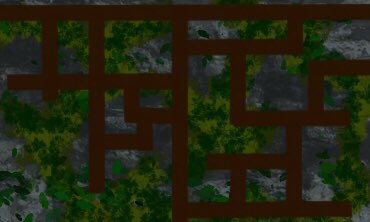
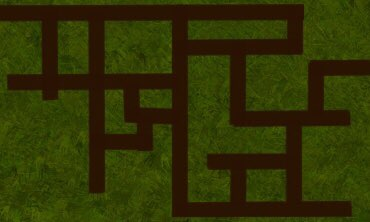
fixed transitions

diff --git a/jsgame.html b/jsgame.html
@@ -6,83 +6,33 @@
   <link rel="stylesheet" href="jsgame.css">
 
   <map name="levelOneMap">
-    <area shape="rect" coords="-9,28,33,275" id="levelOneObstacle1">
-    <area shape="rect" coords="60,28,520,58" id="levelOneObstacle2">
-    <area shape="rect" coords="281,62,327,147" id="levelOneObstacle3">
-    <area shape="rect" coords="349,84,413,147" id="levelOneObstacle4">
-    <area shape="rect" coords="439,84,521,147" id="levelOneObstacle5">
-    <area shape="rect" coords="282,173,472,234" id="levelOneObstacle6">
-    <area shape="rect" coords="60,174,149,272" id="levelOneObstacle7">
-    <area shape="rect" coords="149,263,323,274" id="levelOneObstacle8">
-    <area shape="rect" coords="545,1,558,149" id="levelOneObstacle9">
-    <area shape="rect" coords="349,262,558,307" id="levelOneObstacle10">
-    <area shape="rect" coords="496,175,559,261" id="levelOneObstacle11">
-    <area shape="rect" coords="59,298,325,338" id="levelOneObstacle12">
-    <area shape="rect" coords="-8,298,35,338" id="levelOneObstacle13">
-    <area shape="rect" coords="59,86,197,98" id="levelOneObstacle14">
-    <area shape="rect" coords="61,100,95,147" id="levelOneObstacle15">
-    <area shape="rect" coords="119,98,201,149" id="levelOneObstacle16">
-    <area shape="rect" coords="187,148,201,170" id="levelOneObstacle17">
-    <area shape="rect" coords="170,171,201,206" id="levelOneObstacle18">
-    <area shape="rect" coords="171,206,256,236" id="levelOneObstacle19">
-    <area shape="rect" coords="225,85,255,204" id="levelOneObstacle20">
+    <area shape="rect" coords="0,55,24,254" id="levelOneObstacle1">
+    <area shape="rect" coords="95,318,306,338" id="levelOneObstacle2">
+    <area shape="rect" coords="87,197,131,244" id="levelOneObstacle3">
+    <area shape="rect" coords="528,196,568,290" id="levelOneObstacle4">
+    <area shape="rect" coords="315,195,457,216" id="levelOneObstacle5">
   </map>
 
   <map name="levelTwoMap">
-    <area shape="rect" coords="0,31,64,112" id="levelTwoObstacle1">
-    <area shape="rect" coords="90,31,138,111" id="levelTwoObstacle2">
-    <area shape="rect" coords="161,31,263,110" id="levelTwoObstacle3">
-    <area shape="rect" coords="290,30,443,58" id="levelTwoObstacle4">
-    <area shape="rect" coords="466,31,568,91" id="levelTwoObstacle5">
-    <area shape="rect" coords="379,84,473,167" id="levelTwoObstacle6">
-    <area shape="rect" coords="500,116,569,170" id="levelTwoObstacle7">
-    <area shape="rect" coords="467,192,566,308" id="levelTwoObstacle8">
-    <area shape="rect" coords="290,84,354,236" id="levelTwoObstacle9">
-    <area shape="rect" coords="357,197,441,234" id="levelTwoObstacle10">
-    <area shape="rect" coords="381,261,441,306" id="levelTwoObstacle11">
-    <area shape="rect" coords="289,238,317,257" id="levelTwoObstacle12">
-    <area shape="rect" coords="291,261,353,307" id="levelTwoObstacle13">
-    <area shape="rect" coords="4,138,139,333" id="levelTwoObstacle14">
-    <area shape="rect" coords="138,298,265,339" id="levelTwoObstacle15">
-    <area shape="rect" coords="165,232,264,291" id="levelTwoObstacle16">
-    <area shape="rect" coords="218,144,262,165" id="levelTwoObstacle17">
-    <area shape="rect" coords="162,139,194,203" id="levelTwoObstacle18">
-    <area shape="rect" coords="193,188,210,202" id="levelTwoObstacle19">
-    <area shape="rect" coords="1,114,13,136" id="levelTwoObstacle20">
+    <area shape="rect" coords="1,163,110,338" id="levelTwoObstacle1">
+    <area shape="rect" coords="179,251,242,322" id="levelTwoObstacle2">
+    <area shape="rect" coords="488,212,567,288" id="levelTwoObstacle3">
+    <area shape="rect" coords="493,1,569,72" id="levelTwoObstacle4">
+    <area shape="rect" coords="527,131,569,154" id="levelTwoObstacle5">
+    <area shape="rect" coords="305,102,342,217" id="levelTwoObstacle6">
+    <area shape="rect" coords="181,51,243,87" id="levelTwoObstacle7">
+    <area shape="rect" coords="1,49,47,85" id="levelTwoObstacle8">
+    
   </map>
 
   <map name="levelThreeMap">
-    <area shape="rect" coords="323,262,566,338" id="levelThreeObstacle1">
-    <area shape="rect" coords="489,170,569,258" id="levelThreeObstacle2">
-    <area shape="rect" coords="274,0,567,75" id="levelThreeObstacle3">
-    <area shape="rect" coords="273,98,513,144" id="levelThreeObstacle4">
-    <area shape="rect" coords="540,74,569,145" id="levelThreeObstacle5">
-    <area shape="rect" coords="1,0,273,23" id="levelThreeObstacle6">
-    <area shape="rect" coords="1,24,29,148" id="levelThreeObstacle7">
-    <area shape="rect" coords="53,44,83,148" id="levelThreeObstacle8">
-    <area shape="rect" coords="110,44,245,57" id="levelThreeObstacle9">
-    <area shape="rect" coords="109,47,151,107" id="levelThreeObstacle10">
-    <area shape="rect" coords="181,82,246,113" id="levelThreeObstacle11">
-    <area shape="rect" coords="110,138,247,147" id="levelThreeObstacle12">
-    <area shape="rect" coords="1,175,29,336" id="levelThreeObstacle13">
-    <area shape="rect" coords="31,317,124,339" id="levelThreeObstacle14">
-    <area shape="rect" coords="55,264,135,310" id="levelThreeObstacle15">
-    <area shape="rect" coords="108,208,154,236" id="levelThreeObstacle16">
-    <area shape="rect" coords="273,262,294,309" id="levelThreeObstacle17">
-    <area shape="rect" coords="55,174,81,236" id="levelThreeObstacle18">
-    <area shape="rect" coords="55,174,153,182" id="levelThreeObstacle19">
-    <area shape="rect" coords="235,262,245,311" id="levelThreeObstacle20">
-    <area shape="rect" coords="181,173,294,183" id="levelThreeObstacle21">
-    <area shape="rect" coords="250,173,293,198" id="levelThreeObstacle22">
-    <area shape="rect" coords="182,210,225,233" id="levelThreeObstacle23">
-    <area shape="rect" coords="225,228,293,234" id="levelThreeObstacle24">
-    <area shape="rect" coords="319,174,461,182" id="levelThreeObstacle25">
-    <area shape="rect" coords="414,182,463,202" id="levelThreeObstacle26">
-    <area shape="rect" coords="320,207,385,230" id="levelThreeObstacle27">
-    <area shape="rect" coords="386,228,463,235" id="levelThreeObstacle28">
-    <area shape="rect" coords="163,262,209,276" id="levelThreeObstacle29">
-    <area shape="rect" coords="161,300,210,310" id="levelThreeObstacle30">
-    <area shape="rect" coords="195,265,210,310" id="levelThreeObstacle31">
+    <area shape="rect" coords="293,1,567,60" id="levelThreeObstacle1">
+    <area shape="rect" coords="338,277,567,339" id="levelThreeObstacle2">
+    <area shape="rect" coords="506,186,568,260" id="levelThreeObstacle3">
+    <area shape="rect" coords="289,112,489,131" id="levelThreeObstacle4">
+    <area shape="rect" coords="70,280,105,325" id="levelThreeObstacle5">
+    <area shape="rect" coords="551,66,568,132" id="levelThreeObstacle6">
+    <area shape="rect" coords="122,217,141,224" id="levelThreeObstacle7">    
   </map>
 
 

diff --git a/jsgame.js b/jsgame.js
@@ -76,8 +76,8 @@ function mainMenu() {
 function levelOne() {
     x = 0; 
     y = 0; 
-    finish_x = canvas.width/2; 
-    finish_y = canvas.height/2; 
+    finish_x = 568; 
+    finish_y = 165; 
     level_image = level_one_image;
     level_array = level_one_collectables;
     level = 1;
@@ -192,21 +192,7 @@ var level_one_obstacles = [
     "levelOneObstacle3",
     "levelOneObstacle4",
     "levelOneObstacle5",
-    "levelOneObstacle6",
-    "levelOneObstacle7",
-    "levelOneObstacle8",
-    "levelOneObstacle9",
-    "levelOneObstacle10",
-    "levelOneObstacle11",
-    "levelOneObstacle12",
-    "levelOneObstacle13",
-    "levelOneObstacle14",
-    "levelOneObstacle15",
-    "levelOneObstacle16",
-    "levelOneObstacle17",
-    "levelOneObstacle18",
-    "levelOneObstacle19",
-    "levelOneObstacle20"
+
 ];
 
 // Updated isLevelOneObstacle function to handle multiple obstacles
@@ -231,19 +217,7 @@ var level_two_obstacles = [
     "levelTwoObstacle5",
     "levelTwoObstacle6",
     "levelTwoObstacle7",
-    "levelTwoObstacle8",
-    "levelTwoObstacle9",
-    "levelTwoObstacle10",
-    "levelTwoObstacle11",
-    "levelTwoObstacle12",
-    "levelTwoObstacle13",
-    "levelTwoObstacle14",
-    "levelTwoObstacle15",
-    "levelTwoObstacle16",
-    "levelTwoObstacle17",
-    "levelTwoObstacle18",
-    "levelTwoObstacle19",
-    "levelTwoObstacle20"
+    "levelTwoObstacle8"
 ];
 
 // Updated isLevelTwoObstacle function to handle multiple obstacles
@@ -267,32 +241,7 @@ var level_three_obstacles = [
     "levelThreeObstacle4",
     "levelThreeObstacle5",
     "levelThreeObstacle6",
-    "levelThreeObstacle7",
-    "levelThreeObstacle8",
-    "levelThreeObstacle9",
-    "levelThreeObstacle10",
-    "levelThreeObstacle11",
-    "levelThreeObstacle12",
-    "levelThreeObstacle13",
-    "levelThreeObstacle14",
-    "levelThreeObstacle15",
-    "levelThreeObstacle16",
-    "levelThreeObstacle17",
-    "levelThreeObstacle18",
-    "levelThreeObstacle19",
-    "levelThreeObstacle20",
-    "levelThreeObstacle21",
-    "levelThreeObstacle22",
-    "levelThreeObstacle23",
-    "levelThreeObstacle24",
-    "levelThreeObstacle25",
-    "levelThreeObstacle26",
-    "levelThreeObstacle27",
-    "levelThreeObstacle28",
-    "levelThreeObstacle29",
-    "levelThreeObstacle30",
-    "levelThreeObstacle31"
-
+    "levelThreeObstacle7"
 ];
 
 // Updated isLevelThreeObstacle function to handle multiple obstacles
@@ -385,3 +334,20 @@ document.addEventListener('keydown', function(e) {
     }
 });
 
+// Function to check if the player has reached the finish coordinates
+function checkLevelCompletion() {
+    if (x === finish_x && y === finish_y) {
+        if (level < 3) {
+            level++;
+            // Call the appropriate level function (e.g., levelTwo(), levelThree())
+            if (level === 2) {
+                levelTwo();
+            } else if (level === 3) {
+                levelThree();
+            }
+        } else {
+            // Player has completed all levels
+            alert("Congratulations! You completed all levels.");
+        }
+    }
+}
